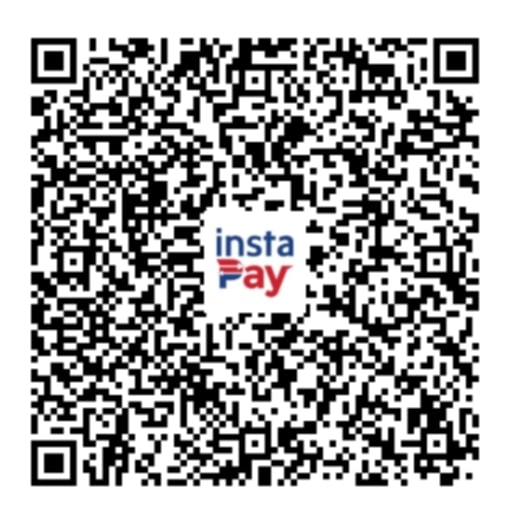
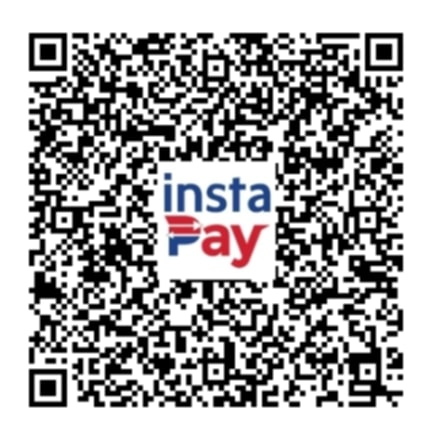
Add files via upload

diff --git a/index.html b/index.html
@@ -41,7 +41,7 @@
             margin: 20px 0;
         }
         .payment img {
-            max-width: 80px;
+            max-width: 150px;
             border-radius: 10px;
         }
         footer {
@@ -77,11 +77,11 @@
             <div class="payment">
                 <div>
                     <img src="gcash-qr.png" alt="GCash QR">
-                    <p>GCash</p>
+                    <img width="50px" src="gcash.png" alt="GCash">
                 </div>
                 <div>
                     <img src="maya-qr.png" alt="Maya QR">
-                    <p>PayMaya</p>
+                    <img width="50px" src="maya.png" alt="Maya">
                 </div>
             </div>
         </div>
